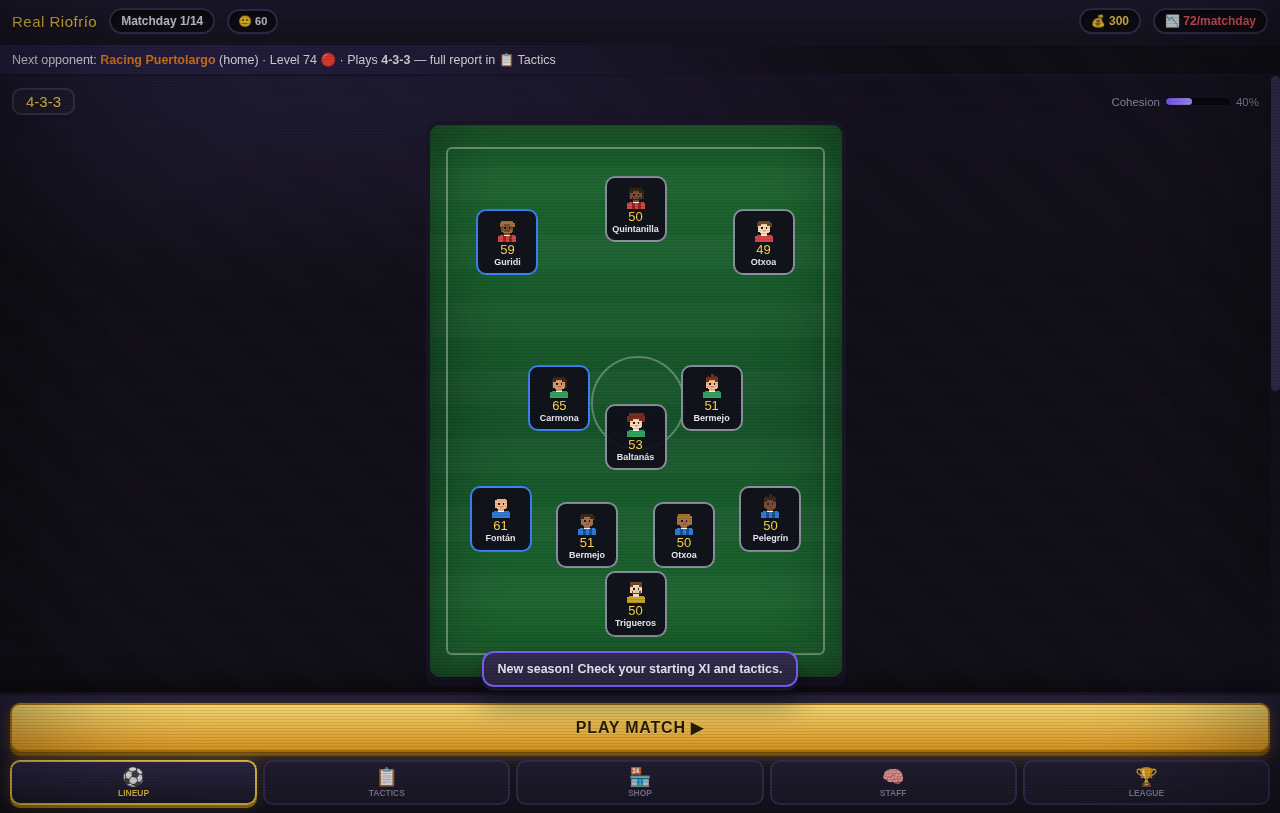
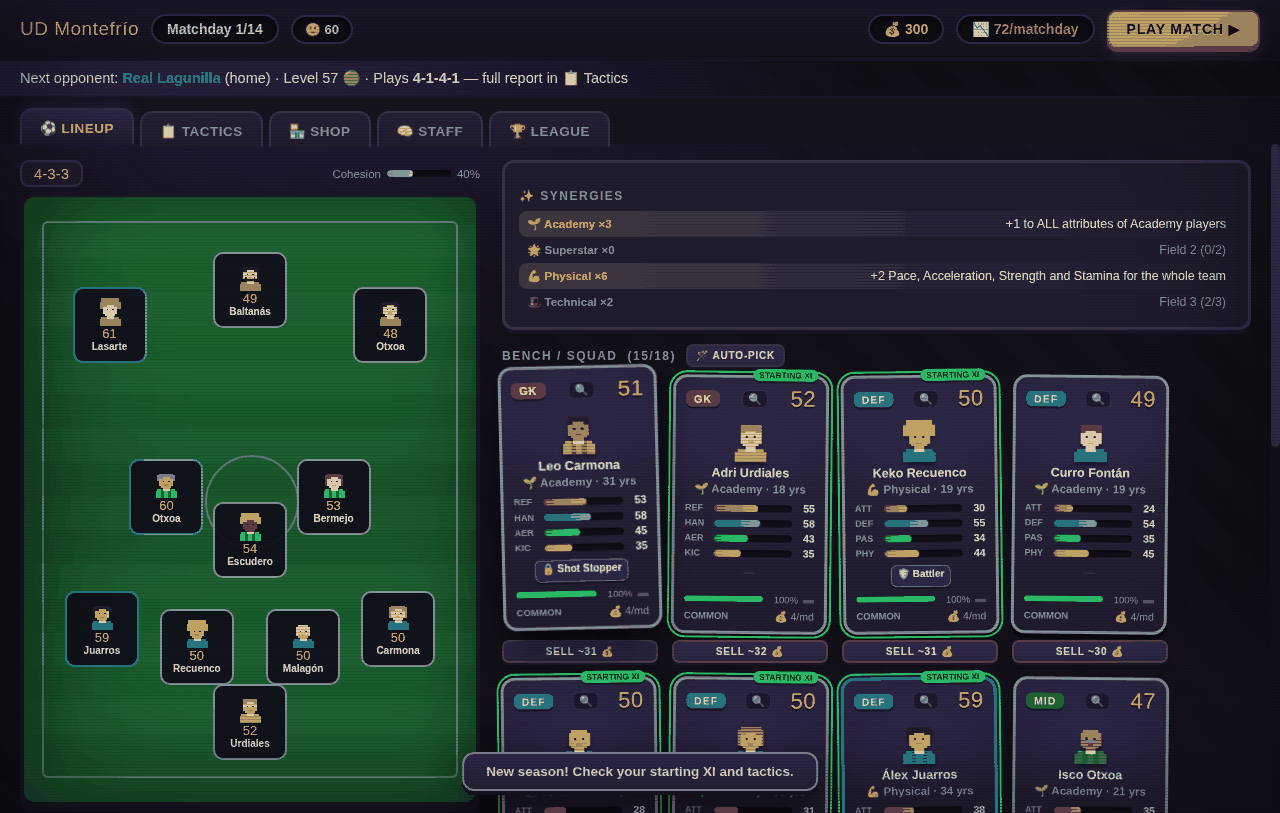
Add save/resume and an end-of-season review
- Autosave to localStorage (relegation-run:save) on every management change
  and right after each result, so a reload never replays a match
- Continue button on the menu; New Run asks before overwriting a save
- Save is versioned and validated; corrupted/outdated saves are ignored
- Card id counter is persisted so resumed runs never reuse ids
- Season review screen: results strip, awards, squad stats, final table
- Fix: end screen could clip its top when taller than the viewport
- Fix: half-time Continue no longer throws if the match already ended
- Shared Node test harness, tests/save.js (9 tests), browser check now
  covers reload + Continue and can capture README screenshots
- package.json with npm test / test:browser / screenshots scripts

diff --git a/tests/browser-check.js b/tests/browser-check.js
@@ -108,10 +108,10 @@ function esperar(ms) { return new Promise(function (r) { setTimeout(r, ms); }); 
     await js('document.querySelector(".speed-btn[data-speed=\'4\']").click()');
     // half-time team talk / tactics board
     if (partido === 1) { await esperar(6000); await shot('match'); }
-    await hasta('!document.getElementById("ht-panel").classList.contains("hidden")', 30000);
+    await hasta('!document.getElementById("ht-panel").classList.contains("hidden")', 60000);
     await js('document.querySelector("#ht-mentalidad .seg-btn").click(); document.getElementById("ht-continue").click()');
     if (partido === 2) await js('document.getElementById("btn-skip").click()');
-    ok = await hasta('document.getElementById("screen-post").classList.contains("active")', 40000);
+    ok = await hasta('document.getElementById("screen-post").classList.contains("active")', 60000);
     // drop: open the player profile, then skip the drop
     await esperar(2500);
     if (partido === 1) await shot('post-match');
@@ -130,7 +130,7 @@ function esperar(ms) { return new Promise(function (r) { setTimeout(r, ms); }); 
   if (jornadaDespues !== jornadaAntes) problemas.push('RESUME: matchday ' + jornadaAntes + ' became ' + jornadaDespues + ' after reload');
 
   // season review: render the end screen for the current run
-  await js('UI.renderEnd({ victoria: false, razon: "Browser check", puesto: League.puestoJugador() })');
+  await js('UI.renderEnd({ victoria: false, razon: "Season review preview (sacked early)", puesto: League.puestoJugador() })');
   await hasta('document.getElementById("screen-end").classList.contains("active")', 3000);
   if (!await js('document.querySelectorAll("#end-form .res").length > 0 && document.querySelectorAll("#end-squad tr").length > 1')) problemas.push('REVIEW: season review not rendered');
   await shot('season-review');

diff --git a/css/style.css b/css/style.css
@@ -608,8 +608,8 @@ h1, h2, h3, h4, .team-badge, .sb-score, .card-media {
 .drop-actions { display: flex; gap: 6px; margin-top: 8px; justify-content: center; }
 
 /* ---------- end of run ---------- */
-#screen-end { align-items: center; justify-content: center; text-align: center; overflow-y: auto; }
-.end-content { padding: 40px; max-width: 620px; width: 100%; margin: auto; }
+#screen-end { align-items: center; text-align: center; overflow-y: auto; } /* .end-content centres itself with margin:auto, which never clips when it overflows */
+.end-content { padding: 40px; max-width: 760px; width: 100%; margin: auto; }
 #end-title { font-size: 56px; margin-bottom: 10px; animation: titlePop 0.6s ease; }
 .end-win { color: var(--gold); text-shadow: 0 5px 0 #7a5a00, 0 0 50px rgba(255,213,74,0.55); }
 .end-lose { color: var(--red); text-shadow: 0 5px 0 #6e1520; }
@@ -627,7 +627,6 @@ h1, h2, h3, h4, .team-badge, .sb-score, .card-media {
 .end-stat b { color: var(--gold); }
 
 /* season review */
-#screen-end { overflow-y: auto; }
 .continue-info { color: var(--muted); font-size: 13px; margin: -6px 0 4px; }
 .end-form { display: flex; flex-wrap: wrap; justify-content: center; gap: 5px; margin-bottom: 22px; }
 .end-form .res {
@@ -638,7 +637,7 @@ h1, h2, h3, h4, .team-badge, .sb-score, .card-media {
 .end-form .res-E { background: #ffd54a; }
 .end-form .res-D { background: #ff6b5c; }
 .end-form .res-boss { outline: 2px solid #fff; outline-offset: 1px; }
-.end-awards { display: grid; grid-template-columns: repeat(auto-fit, minmax(160px, 1fr)); gap: 12px; margin-bottom: 26px; }
+.end-awards { display: grid; grid-template-columns: repeat(4, 1fr); gap: 10px; margin-bottom: 26px; }
 .end-award {
   background: var(--panel); border: 3px solid var(--border); border-radius: 12px;
   box-shadow: 0 5px 0 var(--border-dark); padding: 12px; text-align: center;

diff --git a/js/ui.js b/js/ui.js
@@ -878,11 +878,6 @@ var UI = (function () {
     $('#end-title').className = fin.victoria ? 'end-win' : 'end-lose';
     $('#end-reason').textContent = fin.razon;
 
-    var goleador = null, maxG = 0;
-    Object.keys(s.mejorGoleador).forEach(function (n) {
-      if (s.mejorGoleador[n] > maxG) { maxG = s.mejorGoleador[n]; goleador = n; }
-    });
-
     var filas = [
       ['Final position', fin.puesto + ' of 8'],
       ['Record', s.pg + 'W · ' + s.pe + 'D · ' + s.pp + 'L'],
@@ -890,8 +885,7 @@ var UI = (function () {
       ['Gold earned', s.oroGanado + ' 💰'],
       ['Gold spent', s.oroGastado + ' 💰'],
       ['Signings / sales', s.cartasCompradas + ' / ' + s.cartasVendidas],
-      ['Boss matches won', s.jefesGanados],
-      ['Top scorer', goleador ? goleador + ' (' + maxG + ')' : '—']
+      ['Boss matches won', s.jefesGanados]
     ];
     $('#end-stats').innerHTML = filas.map(function (f) {
       return '<div class="end-stat"><span>' + f[0] + '</span><b>' + f[1] + '</b></div>';
@@ -925,6 +919,7 @@ var UI = (function () {
 
     if (fin.victoria) AudioFX.victoria(); else AudioFX.derrota();
     showScreen('screen-end');
+    $('#screen-end').scrollTop = 0;
   }
 
   // ---------- tabs ----------

diff --git a/js/league.js b/js/league.js
@@ -144,6 +144,14 @@ var League = (function () {
       });
       return best;
     }
+    // counted by name in run.stats, so players sold mid-season still qualify
+    function goleadorTemporada(goles) {
+      var best = null;
+      Object.keys(goles).forEach(function (n) {
+        if (!best || goles[n] > best.goles) best = { nombre: n, goles: goles[n] };
+      });
+      return best;
+    }
     // player of the season needs a third of the matches played to qualify
     var minPj = Math.max(1, Math.ceil(forma.length / 3));
 
@@ -151,7 +159,7 @@ var League = (function () {
       forma: forma,
       plantilla: plantilla,
       mejor: mejorPor('media', minPj),
-      goleador: mejorPor('goles', 1),
+      goleador: goleadorTemporada(run.stats.mejorGoleador),
       asistente: mejorPor('asistencias', 1),
       ligaGoleador: topScorers(1)[0] || null
     };

diff --git a/tests/save.js b/tests/save.js
@@ -165,6 +165,9 @@ test('finishing a run clears the save and fills the season review', function () 
   assert.strictEqual(review.forma.reduce(function (a, f) { return a + f.gf; }, 0), S.run.stats.gf);
   assert.strictEqual(review.plantilla.length, S.run.plantilla.length);
   if (review.mejor) assert.ok(review.mejor.media > 0 && review.mejor.pj >= 1);
+  var tally = S.run.stats.mejorGoleador, maxGoals = 0;
+  Object.keys(tally).forEach(function (n) { maxGoals = Math.max(maxGoals, tally[n]); });
+  assert.strictEqual(review.goleador ? review.goleador.goles : 0, maxGoals, 'top scorer counts sold players too');
 
   assert.ok(/class="res res-/.test(h.byId('end-form').innerHTML), 'results strip rendered');
   assert.ok(/Player of the season/.test(h.byId('end-awards').innerHTML), 'awards rendered');

diff --git a/css/mobile.css b/css/mobile.css
@@ -167,6 +167,7 @@ html.is-mobile .post-gold { min-width: 0; width: 100%; }
 html.is-mobile .drop-cards { gap: 12px; }
 html.is-mobile #btn-post-continue { width: 100%; }
 html.is-mobile .end-content { padding: 24px 16px; }
+html.is-mobile .end-awards { grid-template-columns: repeat(2, 1fr); }
 html.is-mobile #end-title { font-size: 38px; }
 html.is-mobile #btn-end-menu { width: 100%; }
 

diff --git a/js/match.js b/js/match.js
@@ -411,6 +411,7 @@ var Match = (function () {
     document.getElementById('ht-continue').onclick = function () {
       AudioFX.click();
       panel.classList.add('hidden');
+      if (!current) return; // the match already ended (e.g. skipped)
       current.enDescanso = false;
       current.engine.reanudar();
     };
